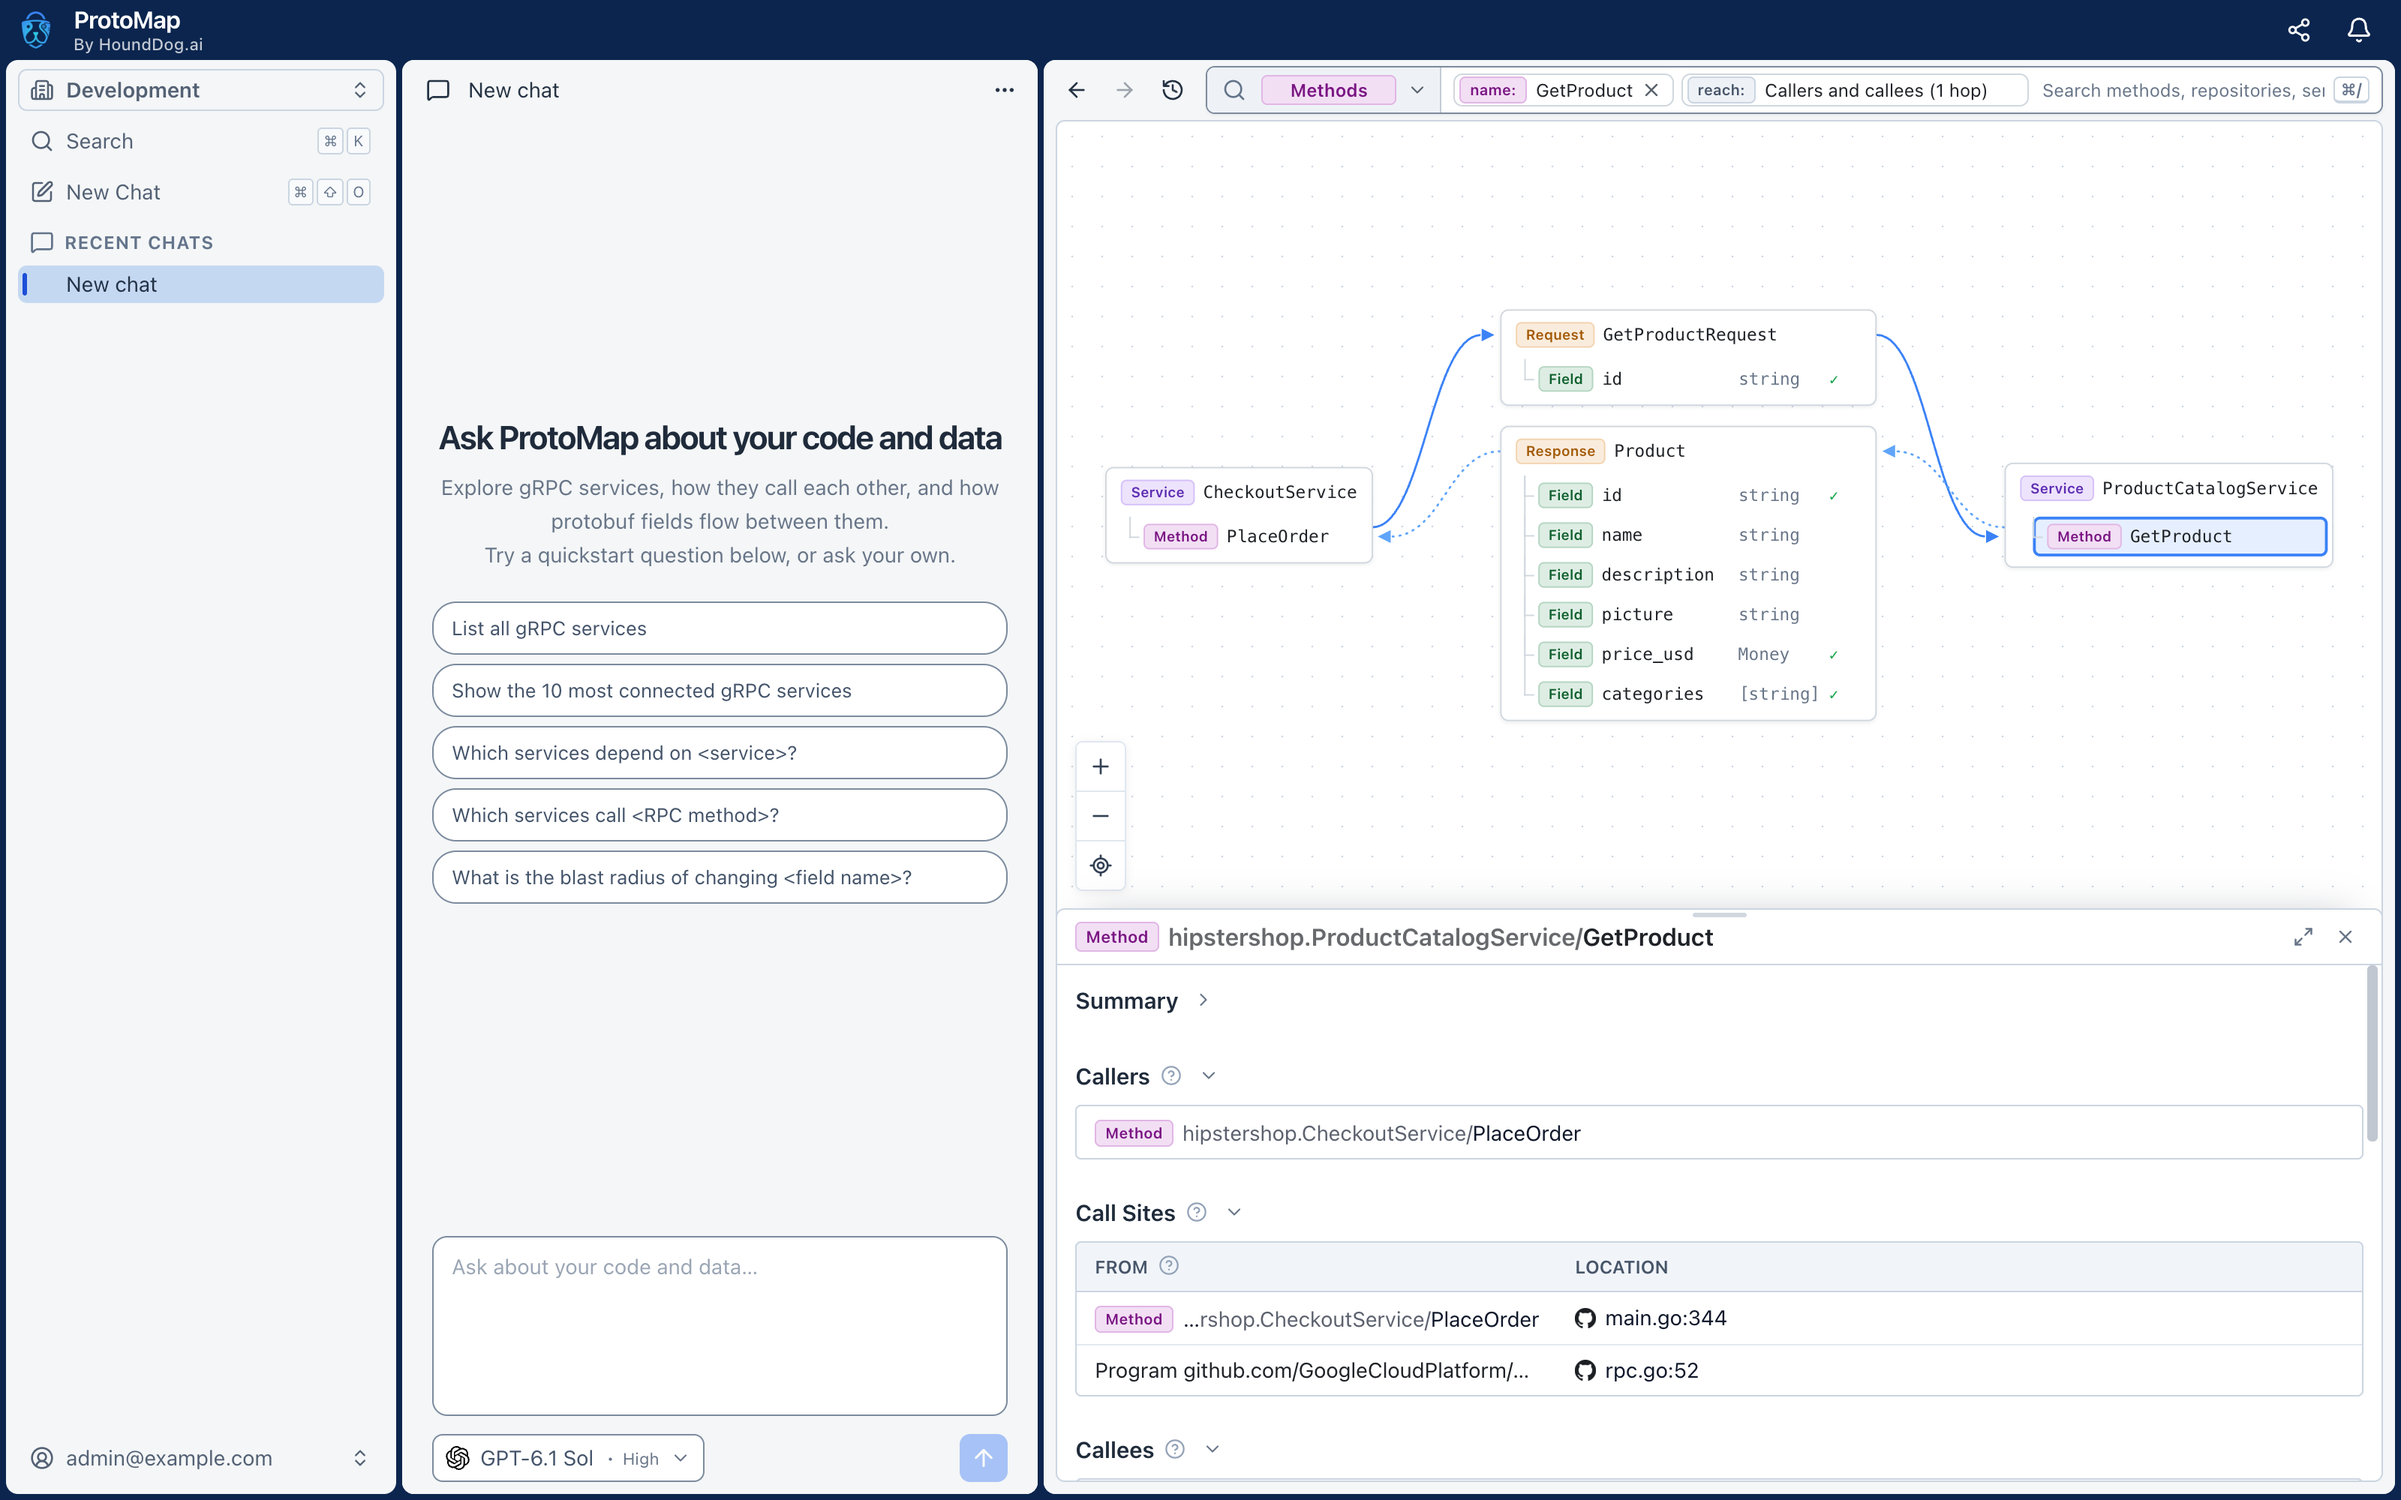
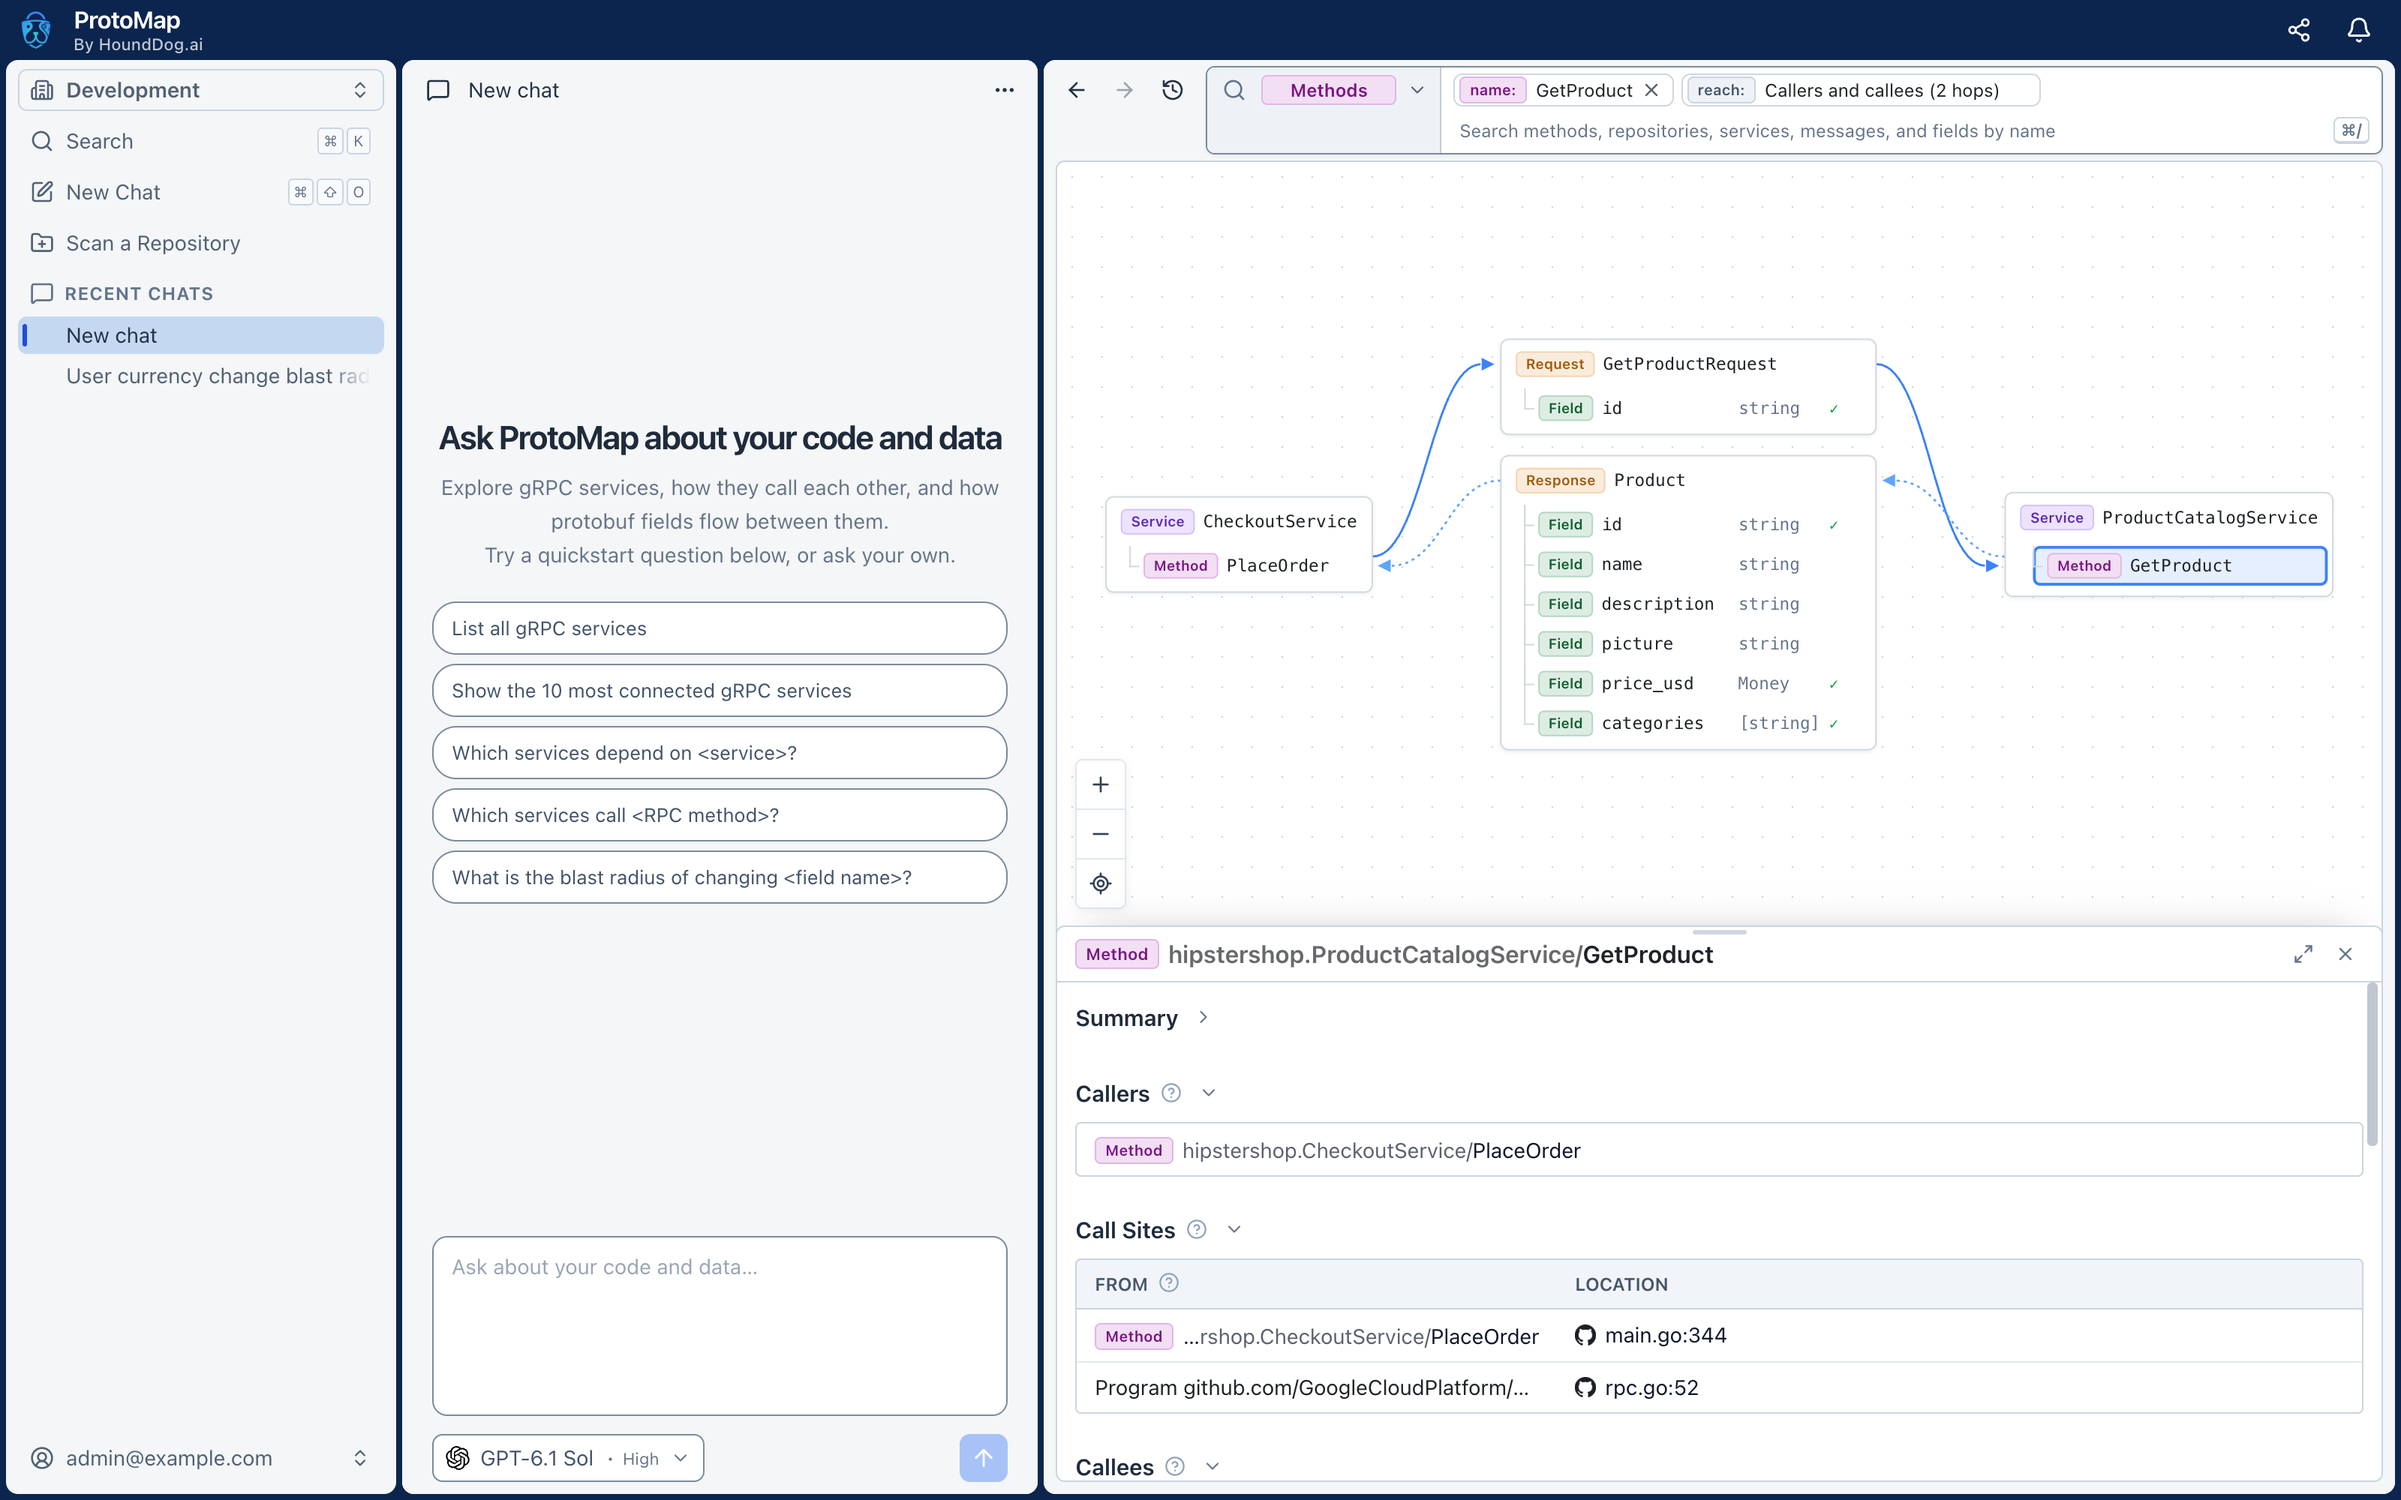
Update the public files from aeec1165ab89

diff --git a/README.md b/README.md
@@ -83,9 +83,9 @@ repository as files are saved, so the agent sees your changes laid over the grap
 claude mcp add protomap -- protomap mcp serve
 ```
 
-**Scan a Repository** in the platform, such as from its search, gives the command for Codex, Gemini CLI, Copilot CLI,
-VS Code, OpenCode, Amp, Droid, and Qwen Code, and the JSON for other agents, which run `protomap mcp serve` over
-standard input and output. The agent reads the graph as you, so log in first, or use a personal API key.
+**Scan a Repository** in the platform's sidebar gives the command for Codex, Gemini CLI, Copilot CLI, VS Code,
+OpenCode, Amp, Droid, and Qwen Code, and the JSON for other agents, which run `protomap mcp serve` over standard input
+and output. The agent reads the graph as you, so log in first, or use a personal API key.
 
 ## Containers, CI, and other automation
 
